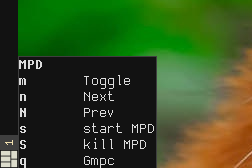
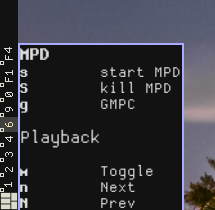
Add separators

diff --git a/README.md b/README.md
@@ -13,16 +13,23 @@ to enter that mode. A mode table contains one table per binding, in the form
 	}
 ```
 
+Additionally, separator elements can be added to group the actions displayed in
+the popup. Just add a table like the following:
+```lua
+  {"separator", group_title } -- literal string "separator" is required.
+```
+
 An example mode for controlling mpd, entered by pressing <kbd>Mod</kbd> + <kbd>m</kbd>:
 
 ```lua
 local mpdmap = {
-	{"m", function() awful.util.spawn("mpc toggle") end, "Toggle" },
-	{"n", function() awful.util.spawn("mpc next") end,   "Next" },
-	{"N", function() awful.util.spawn("mpc prev") end,   "Prev" },
-	{"s", function() awful.util.spawn("mpd") end,        "start MPD" },
-	{"S", function() awful.util.spawn("mpd --kill") end, "kill MPD" },
-	{"g", function() awful.util.spawn("gmpc") end,       "GMPC" },
+	{ "s", function() awful.util.spawn("mpd") end,        "start MPD" },
+	{ "S", function() awful.util.spawn("mpd --kill") end, "kill MPD" },
+	{ "g", function() awful.util.spawn("gmpc") end,       "GMPC" },
+	{ "separator", "Playback" },
+	{ "m", function() awful.util.spawn("mpc toggle") end, "Toggle" },
+	{ "n", function() awful.util.spawn("mpc next") end,   "Next" },
+	{ "N", function() awful.util.spawn("mpc prev") end,   "Prev" },
 }
 
 -- in your keybindings:
